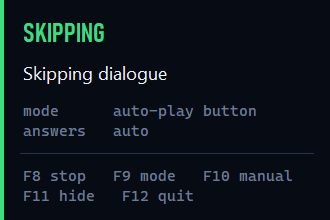
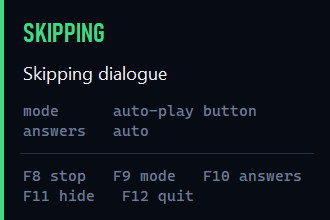
Label F10 by what it controls
The hotkey row read "F10 manual" while every other entry named an action, so it
looked like a status - and the current setting is already on the line above it.

Changed region(s): [[0.7273, 0.7636, 0.9091, 0.8455]]

diff --git a/src/genshin_autoskip/hud.py b/src/genshin_autoskip/hud.py
@@ -295,10 +295,14 @@ class Overlay:
         return f"mode      {anchor}\nanswers   {answers}"
 
     def _keys_line(self) -> str:
+        """Each key is labelled with what it controls, not with its next value.
+
+        "F10 manual" read as a status while every other entry read as an
+        action, and the current setting is already on the line above.
+        """
         first = "F8 stop" if self.state.running else "F8 start"
-        answers = "F10 manual" if self.state.auto_answer else "F10 auto"
         # Two deliberate lines rather than one that wraps wherever it lands.
-        return f"{first}   F9 mode   {answers}\nF11 hide   F12 quit"
+        return f"{first}   F9 mode   F10 answers\nF11 hide   F12 quit"
 
     # -- refresh -----------------------------------------------------------
 
